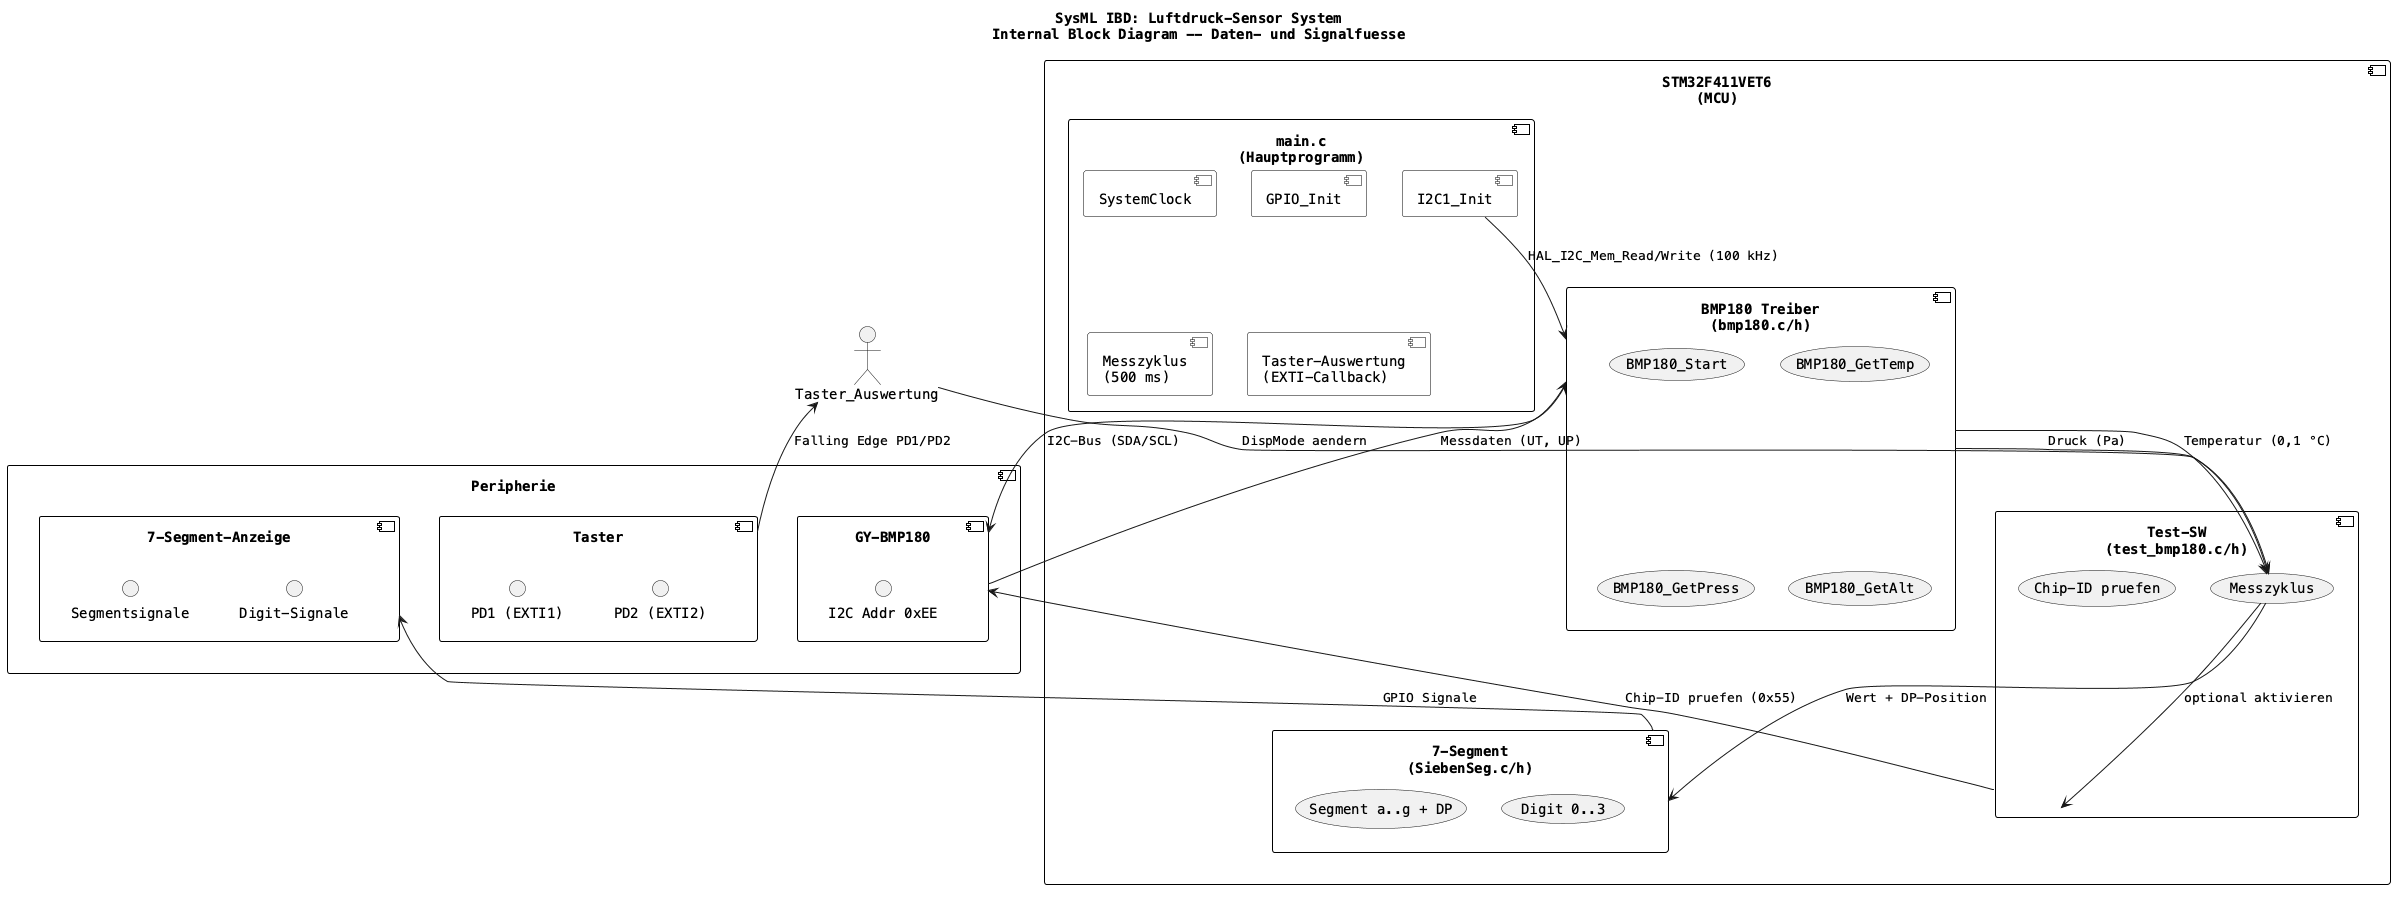
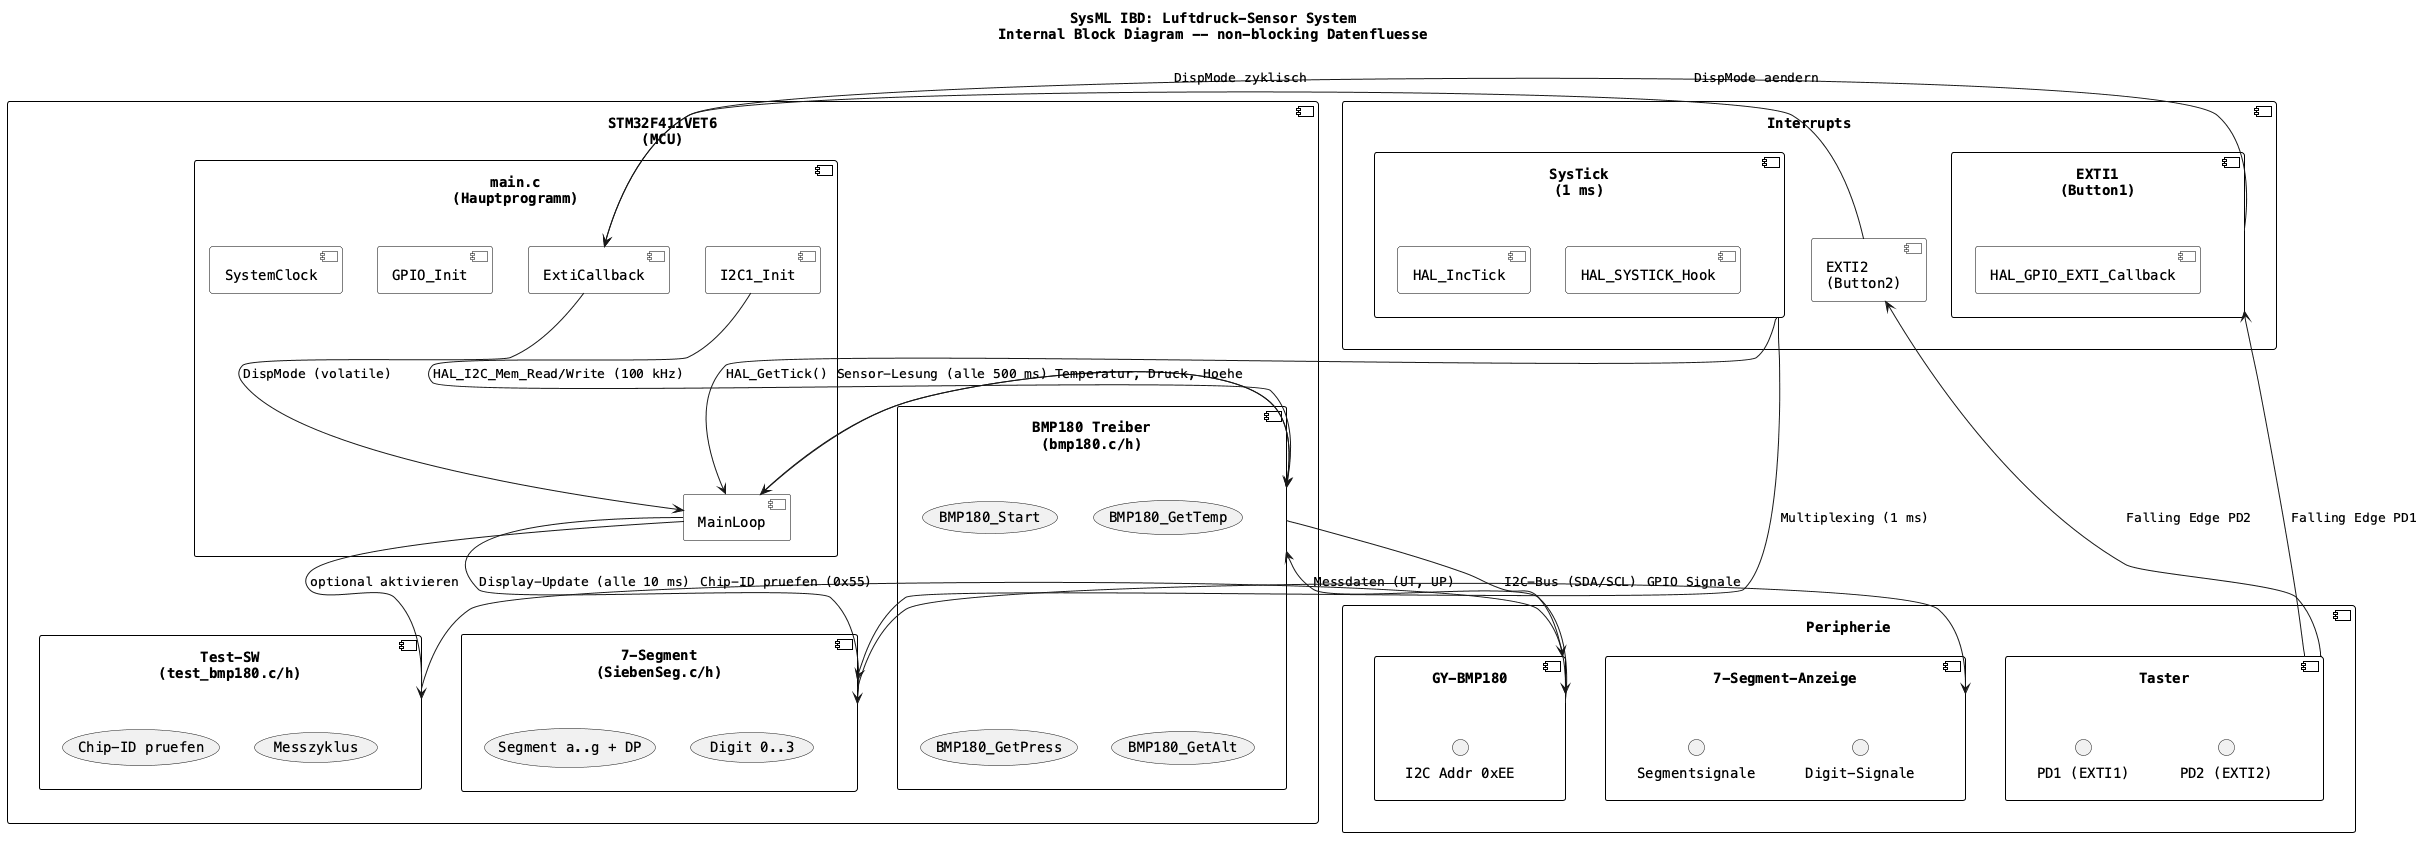
fix: tests and display result

diff --git a/Core/Src/main.c b/Core/Src/main.c
@@ -68,6 +68,8 @@ volatile int32_t TemperatureX10 = 0;  /* 0.1 degC */
 volatile int32_t PressurePa     = 0;  /* Pascal */
 volatile int32_t AltitudeM      = 0;  /* metres */
 volatile int32_t PressureDelta  = 0;  /* Pa change since last sample */
+volatile uint8_t  TestI2C_OK    = 0;  /* != 0 if BMP180 responds on I2C (test mode) */
+volatile uint8_t  TestRead_OK   = 0;  /* != 0 if measurement succeeded (test mode) */
 
 /* Internal scaling values for 7-seg display,  multiplied to avoid floating point calculations*/
 uint16_t PressureBarX1000 = 0;  /* Pressure in bar * 1000 (e.g. 994 = 0.994 bar) */
@@ -125,19 +127,56 @@ int main(void)
   BMP180_Start();
 
 #ifdef BMP180_TEST
-  /* Optional test harness: run a single test cycle and stop so values are
-   * inspectable in the debugger. Enable by adding -DBMP180_TEST to your CFLAGS.
-   */
+  /* Test harness: show results on 7-segment display, no debugger needed */
   TestBMP180_Init();
   {
     TestBMP180_Result_t tr = TestBMP180_RunOnce();
-    /* expose results to the volatile debug variables used elsewhere */
     TemperatureX10 = tr.temperature_x10;
     PressurePa     = tr.pressure_pa;
     AltitudeM      = tr.altitude_m;
     PressureDelta  = tr.pressure_delta;
-    /* stay here so tester can inspect values; i2c_ok shows wiring/device presence */
-    while (1) { HAL_Delay(1000); }
+    TestI2C_OK     = tr.i2c_ok;
+    TestRead_OK    = tr.ok;
+
+    if (!tr.i2c_ok) {
+      /* I2C error: show "E1" (Error 1) */
+      while (1) {
+        Write_7Seg_Hex(0x00E1, 4);
+        HAL_Delay(1000);
+      }
+    }
+    if (!tr.ok) {
+      /* Read error: show "E2" (Error 2) */
+      while (1) {
+        Write_7Seg_Hex(0x00E2, 4);
+        HAL_Delay(1000);
+      }
+    }
+
+    /* Success: cycle through results on 7-segment display */
+    while (1) {
+      /* Temperature: e.g. 22.3 C -> 2230 with DP at pos 1 */
+      if (TemperatureX10 >= 0) {
+        uint16_t tempDisp = (uint16_t)(TemperatureX10 * 10);
+        if (tempDisp > 9999) tempDisp = 9999;
+        Write_7Seg(tempDisp, 1);
+      } else {
+        Write_7Seg(0, 4);
+      }
+      HAL_Delay(2000);
+
+      /* Pressure: e.g. 99400 Pa -> 994 bar*1000 -> 0994 with DP at pos 0 */
+      uint16_t pressDisp = (uint16_t)((PressurePa + 50) / 100);
+      if (pressDisp > 9999) pressDisp = 9999;
+      Write_7Seg(pressDisp, 0);
+      HAL_Delay(2000);
+
+      /* Altitude: e.g. 276 m -> 0276 */
+      uint16_t altDisp = (uint16_t)((AltitudeM < 0) ? 0 : AltitudeM);
+      if (altDisp > 9999) altDisp = 9999;
+      Write_7Seg(altDisp, 4);
+      HAL_Delay(2000);
+    }
   }
 #endif
   /* USER CODE END 2 */

diff --git a/Core/Src/bmp180.c b/Core/Src/bmp180.c
@@ -52,7 +52,8 @@ void read_calliberation_data (void)
 {
 	uint8_t Callib_Data[22] = {0};
 	uint16_t Callib_Start = 0xAA;
-	HAL_I2C_Mem_Read(BMP180_I2C, BMP180_ADDRESS, Callib_Start, 1, Callib_Data, 22, HAL_MAX_DELAY);
+	/* Timeout 100 ms instead of HAL_MAX_DELAY: prevents infinite hang if I2C is disconnected */
+	HAL_I2C_Mem_Read(BMP180_I2C, BMP180_ADDRESS, Callib_Start, 1, Callib_Data, 22, 100);
 
 	AC1 = (int16_t)((Callib_Data[0] << 8) | Callib_Data[1]);
 	AC2 = (int16_t)((Callib_Data[2] << 8) | Callib_Data[3]);

diff --git a/Core/Src/test_bmp180.c b/Core/Src/test_bmp180.c
@@ -12,7 +12,7 @@ extern I2C_HandleTypeDef hi2c1;
 static uint8_t bmp180_i2c_probe(void)
 {
     uint8_t chip_id = 0;
-    HAL_StatusTypeDef status = HAL_I2C_Mem_Read(&hi2c1, 0xEE, 0xD0, 1, &chip_id, 1, HAL_MAX_DELAY);
+    HAL_StatusTypeDef status = HAL_I2C_Mem_Read(&hi2c1, 0xEE, 0xD0, 1, &chip_id, 1, 100);
     return (status == HAL_OK && chip_id == 0x55U) ? 1U : 0U;
 }
 

diff --git a/readme.md b/readme.md
@@ -4,7 +4,6 @@
 **Jahrgang:** AE27 (4. Semester)  
 **Gruppe:** 3 -- Sensor für Luftdruck GY-BMP180  
 
----
 
 ## 1. Aufgabenstellung
 
@@ -18,8 +17,6 @@
 | 4 | Geeignete Visualisierung der Ergebnisse unter Zuhilfenahme des E/A-Boards (7-Segmentanzeige, LED, usw.) oder eines 2004-LCD-Displays | [x] |
 | 5 | Erstellung einer Test-SW auf dem STM32, wobei die Bedienung der jeweiligen Komponente in wiederverwendbare Funktionen ausgelagert sein muss | [x] |
 | 6 | Dokumentation von Anschluss, Funktion, Parametern, Randbedingungen usw. sowie der SW | [x] |
-
----
 
 ## 2. Komponentenanalyse: BMP180 (Aufgabe 1)
 
@@ -64,7 +61,6 @@ Die Kalibrierkoeffizienten umfassen:
 | B1, B2 | signed 16 Bit | Nichtlineare Druckkorrektur |
 | MB, MC, MD | signed 16 Bit | Temperaturkorrekturkonstanten |
 
----
 
 ## 3. Anschluss an den STM32 (Aufgabe 2)
 
@@ -156,8 +152,6 @@ HSE 8 MHz -> PLL (M=8, N=336, P=4) -> SYSCLK 84 MHz
                                      -> APB2 42 MHz
 ```
 
----
-
 ## 4. Inbetriebnahme und Messergebnisse (Aufgabe 3)
 
 ### 4.1 Initialisierungsablauf
@@ -186,7 +180,6 @@ Durch vorsichtiges Drücken auf die Sensormembran oder Erwärmen des Sensors mit
 
 *Abbildung 3: Finaler Aufbau mit BMP180 und STM32F4 Discovery Board*
 
----
 
 ## 5. Visualisierung (Aufgabe 4)
 
@@ -267,8 +260,6 @@ void HAL_GPIO_EXTI_Callback(uint16_t GPIO_Pin)
 }
 ```
 
----
-
 ## 6. Test-Software (Aufgabe 5)
 
 ### 6.1 Architektur
@@ -311,27 +302,44 @@ TestBMP180_Result_t TestBMP180_RunOnce(void);
    - Differenzbildung (aktuell - letzter Wert)
    - Rückgabe aller Werte in einer Struktur
 
-### 6.4 Einbindung in main.c
 
-```c
-#ifdef BMP180_TEST
-    TestBMP180_Init();
-    TestBMP180_Result_t tr = TestBMP180_RunOnce();
-    // Ergebnisse in globale Debug-Variablen kopieren
-    TemperatureX10 = tr.temperature_x10;
-    PressurePa     = tr.pressure_pa;
-    // Hauptschleife anhalten, damit Werte im Debugger inspiziert werden können
-    while (1) { HAL_Delay(1000); }
-#endif
-```
+### 6.4 Test-Modus aktivieren
 
-Aktivierung über CMake:
+Der Test-Modus wird über das CMake-Flag `BMP180_TEST` aktiviert. Am einfachsten ueber den VS Code Task **"Build and Flash Test"**.
+
+Manuell:
 ```bash
-cmake -B build -DBMP180_TEST=ON
-cmake --build build
+cmake -B build/Bmp180Test -DBMP180_TEST=ON
+cmake --build build/Bmp180Test
 ```
 
-### 6.5 Test der wiederverwendbaren BMP180-Bibliothek
+Das erzeugt ein Binary, das nach dem Flashen **sofort die Test-Ergebnisse auf der 7-Segment-Anzeige** zeigt.
+
+### 6.5 Test-Ergebnisse anzeigen
+
+Der Test-Modus zeigt die Ergebnisse **direkt auf der 7-Segment-Anzeige** -- kein Debugger nötig.
+
+**Ablauf:**
+1. VS Code Task **"Build and Flash Test"** ausführen
+2. 7-Segment-Anzeige beobachten:
+
+| Anzeige | Bedeutung |
+|---------|-----------|
+| `E1` | I²C-Fehler: Sensor nicht erreichbar (Verdrahtung prüfen) |
+| `E2` | Lesefehler: Sensor antwortet, aber Messwert ist 0 (defekter Sensor) |
+| `22.3` | Temperatur: 22,3 Grad C (2 Sekunden) |
+| `0.994` | Druck: 0,994 bar = 994 hPa (2 Sekunden) |
+| `0276` | Höhe: 276 m (2 Sekunden) |
+
+Die Werte wechseln alle 2 Sekunden automatisch durch.
+
+**E2 testen:** E2 ist ein theoretischer Fehlerfall (Sensor antwortet auf I²C, liefert aber Druck = 0). In der Praxis tritt er kaum auf. Zum Testen kann in `test_bmp180.c` Zeile 59 temporaer `r.ok = 0;` gesetzt werden.
+
+**Fehlersuche:**
+- `E1` → I²C-Verbindung prüfen (SDA/SCL, Pull-ups, 3,3 V)
+- `E2` → Sensor defekt oder I²C-Kommunikation gestört
+
+### 6.6 Test der wiederverwendbaren BMP180-Bibliothek
 
 Die Sensor-Bibliothek in `Core/Inc/bmp180.h` und `Core/Src/bmp180.c` stellt folgende öffentliche Funktionen bereit:
 
@@ -344,9 +352,10 @@ int32_t BMP180_GetAlt(int oss);                // Höhe in Metern (Näherung)
 
 Diese Funktionen sind vollständig **wiederverwendbar** und können in jedes STM32-Projekt übernommen werden, das einen BMP180 an I²C1 angeschlossen hat.
 
----
+
 
 ## 7. Software-Dokumentation (Aufgabe 6)
+
 
 ### 7.1 Systemarchitektur
 
@@ -375,16 +384,16 @@ Diese Funktionen sind vollständig **wiederverwendbar** und können in jedes STM
 
 Interrupts (asynchron zur Hauptschleife):
 ```
-  SysTick (1 ms) ──> HAL_IncTick() + HAL_SYSTICK_Hook() (Multiplexing)
-  EXTI1 (PD1)    ──> Button 1: DISP_PRESSURE <-> DISP_DELTA
-  EXTI2 (PD2)    ──> Button 2: TEMP -> ALT -> PRESS -> ...
+  SysTick (1 ms) --> HAL_IncTick() + HAL_SYSTICK_Hook() (Multiplexing)
+  EXTI1 (PD1)    --> Button 1: DISP_PRESSURE <-> DISP_DELTA
+  EXTI2 (PD2)    --> Button 2: TEMP -> ALT -> PRESS -> ...
 ```
 Schleife im Main Code: 
 ```
 while (1)                                                
   {                                                          
-    if (Zeit >= SENSOR_INTERVAL_MS) ──> BMP180_GetTemp/Press/Alt (Sensor Messung) 
-    if (Zeit >= DISPLAY_INTERVAL_MS)   ──> Write_7Seg(DispMode)  (Display Update)      
+    if (Zeit >= SENSOR_INTERVAL_MS) --> BMP180_GetTemp/Press/Alt (Sensor Messung) 
+    if (Zeit >= DISPLAY_INTERVAL_MS)   --> Write_7Seg(DispMode)  (Display Update)      
   }   
 ```
 
@@ -479,8 +488,6 @@ p0 = p * (1 - h0/44330)^(-5.255)
 
 Ist `KnownAltitudeMeters = 0`, wird der erste gemessene Druck als lokaler Referenzdruck verwendet (Relativmodus).
 
----
-
 ## 8. Interpretation der Ergebnisse
 
 Eine Luftdruckänderung ist im Alltag meist nur eine kleine, langsame Verschiebung des Messwerts:
@@ -494,7 +501,6 @@ Eine Luftdruckänderung ist im Alltag meist nur eine kleine, langsame Verschiebu
 
 Das Projekt bildet diese Änderungen durch `PressureDelta` (in Pascal) ab. Die 7-Segment-Anzeige zeigt wahlweise den Absolutdruck, die Temperatur, die Höhe oder die momentane Druckänderung.
 
----
 
 ## 9. Quellen
 
@@ -510,7 +516,6 @@ Das Projekt bildet diese Änderungen durch `PressureDelta` (in Pascal) ab. Die 7
   https://de.wikipedia.org/wiki/Luftdruck
 - **SiebenSeg-Bibliothek:** FH-Prof. Herbert Paulis, FH Campus Wien
 
----
 
 ## 10. SysML-Modell
 
@@ -537,37 +542,36 @@ Das IBD zeigt die Daten- und Signalfüsse zwischen den Komponenten:
 
 *Abbildung 6: SysML Internal Block Diagram -- Daten- und Signalfüsse*
 
----
 
 ## 11. Projektstruktur (STM32CubeIDE)
 
 ```
 Luftdruck-Sensor/
-├── Core/
-│   ├── Inc/
-│   │   ├── bmp180.h          # BMP180-Treiber (öffentliche API)
-│   │   ├── main.h            # Hauptdatei (Pin-Defines)
-│   │   ├── SiebenSeg.h       # 7-Segment-Bibliothek
-│   │   ├── test_bmp180.h     # Test-SW (öffentliche API)
-│   │   ├── stm32f4xx_hal_conf.h
-│   │   └── stm32f4xx_it.h
-│   └── Src/
-│       ├── main.c            # Hauptprogramm
-│       ├── bmp180.c          # BMP180-Treiber (Implementierung)
-│       ├── SiebenSeg.c       # 7-Segment-Bibliothek
-│       ├── test_bmp180.c     # Test-SW (Implementierung)
-│       ├── stm32f4xx_it.c    # Interrupt-Handler
-│       ├── stm32f4xx_hal_msp.c
-│       ├── syscalls.c / sysmem.c
-│       └── system_stm32f4xx.c
-├── Drivers/                  # HAL- und CMSIS-Treiber
-├── docs/
-│   ├── datasheet/            # BMP180-Datenblatt (PDF)
-│   ├── images/               # Abbildungen für Doku
-│   ├── HAL_manual_F4_Mar_2023.pdf
-│   └── luftdruck-sensor-projekt.pdf
-├── Luftdruck-Sensor.ioc      # STM32CubeMX-Projektdatei
-├── CMakeLists.txt            # CMake-Build-Konfiguration
-├── Doxyfile                  # Doxygen-Konfiguration
-└── readme.md                 # Diese Datei
++-- Core/
+|   +-- Inc/
+|   |   +-- bmp180.h          # BMP180-Treiber (öffentliche API)
+|   |   +-- main.h            # Hauptdatei (Pin-Defines)
+|   |   +-- SiebenSeg.h       # 7-Segment-Bibliothek
+|   |   +-- test_bmp180.h     # Test-SW (öffentliche API)
+|   |   +-- stm32f4xx_hal_conf.h
+|   |   +-- stm32f4xx_it.h
+|   +-- Src/
+|       +-- main.c            # Hauptprogramm
+|       +-- bmp180.c          # BMP180-Treiber (Implementierung)
+|       +-- SiebenSeg.c       # 7-Segment-Bibliothek
+|       +-- test_bmp180.c     # Test-SW (Implementierung)
+|       +-- stm32f4xx_it.c    # Interrupt-Handler
+|       +-- stm32f4xx_hal_msp.c
+|       +-- syscalls.c / sysmem.c
+|       +-- system_stm32f4xx.c
++-- Drivers/                  # HAL- und CMSIS-Treiber
++-- docs/
+|   +-- datasheet/            # BMP180-Datenblatt (PDF)
+|   +-- images/               # Abbildungen für Doku
+|   +-- HAL_manual_F4_Mar_2023.pdf
+|   +-- luftdruck-sensor-projekt.pdf
++-- Luftdruck-Sensor.ioc      # STM32CubeMX-Projektdatei
++-- CMakeLists.txt            # CMake-Build-Konfiguration
++-- Doxyfile                  # Doxygen-Konfiguration
++-- readme.md                 # Diese Datei
 ```

diff --git a/.vscode/development-in-vscode-readme.md b/.vscode/development-in-vscode-readme.md
@@ -58,7 +58,7 @@ With the extension for VSCode, it should work to select
 
 ### Flash
 
-- The VS Code task `Build and Flash STM32 (Debug)` builds the firmware, converts the ELF to a binary, then flashes it with ST-LINK.
+- The VS Code task `Build and Flash Test` builds the firmware, converts the ELF to a binary, then flashes it with ST-LINK.
 - The task uses a connect-under-reset flash command so it can recover more reliably when the board is already running code.
 
 ### What this repo assumes